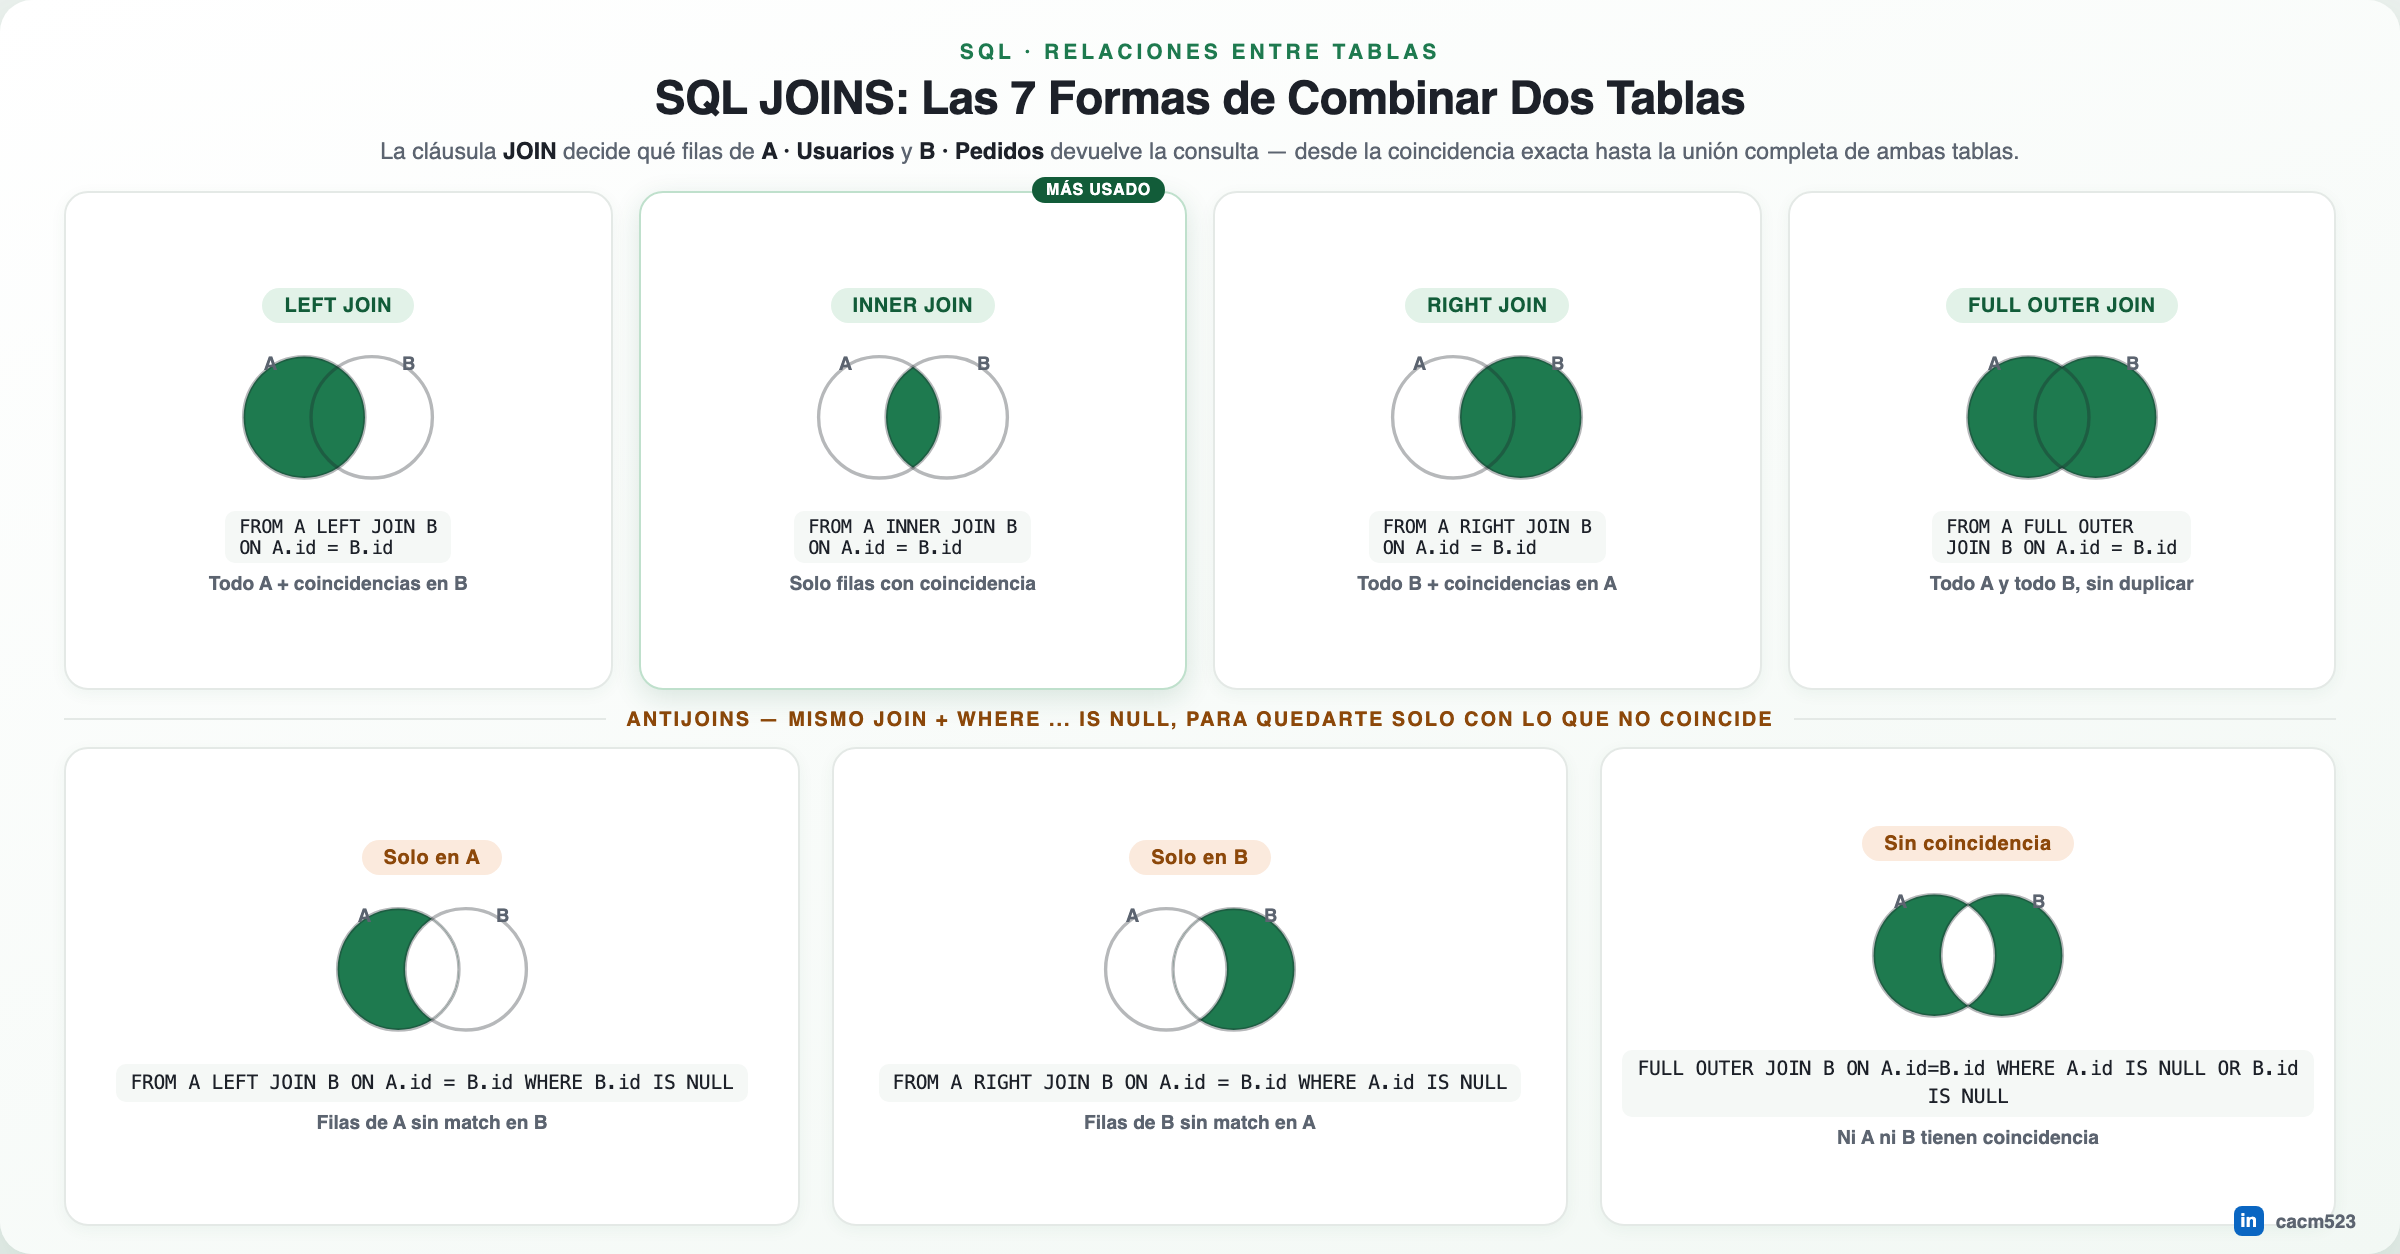
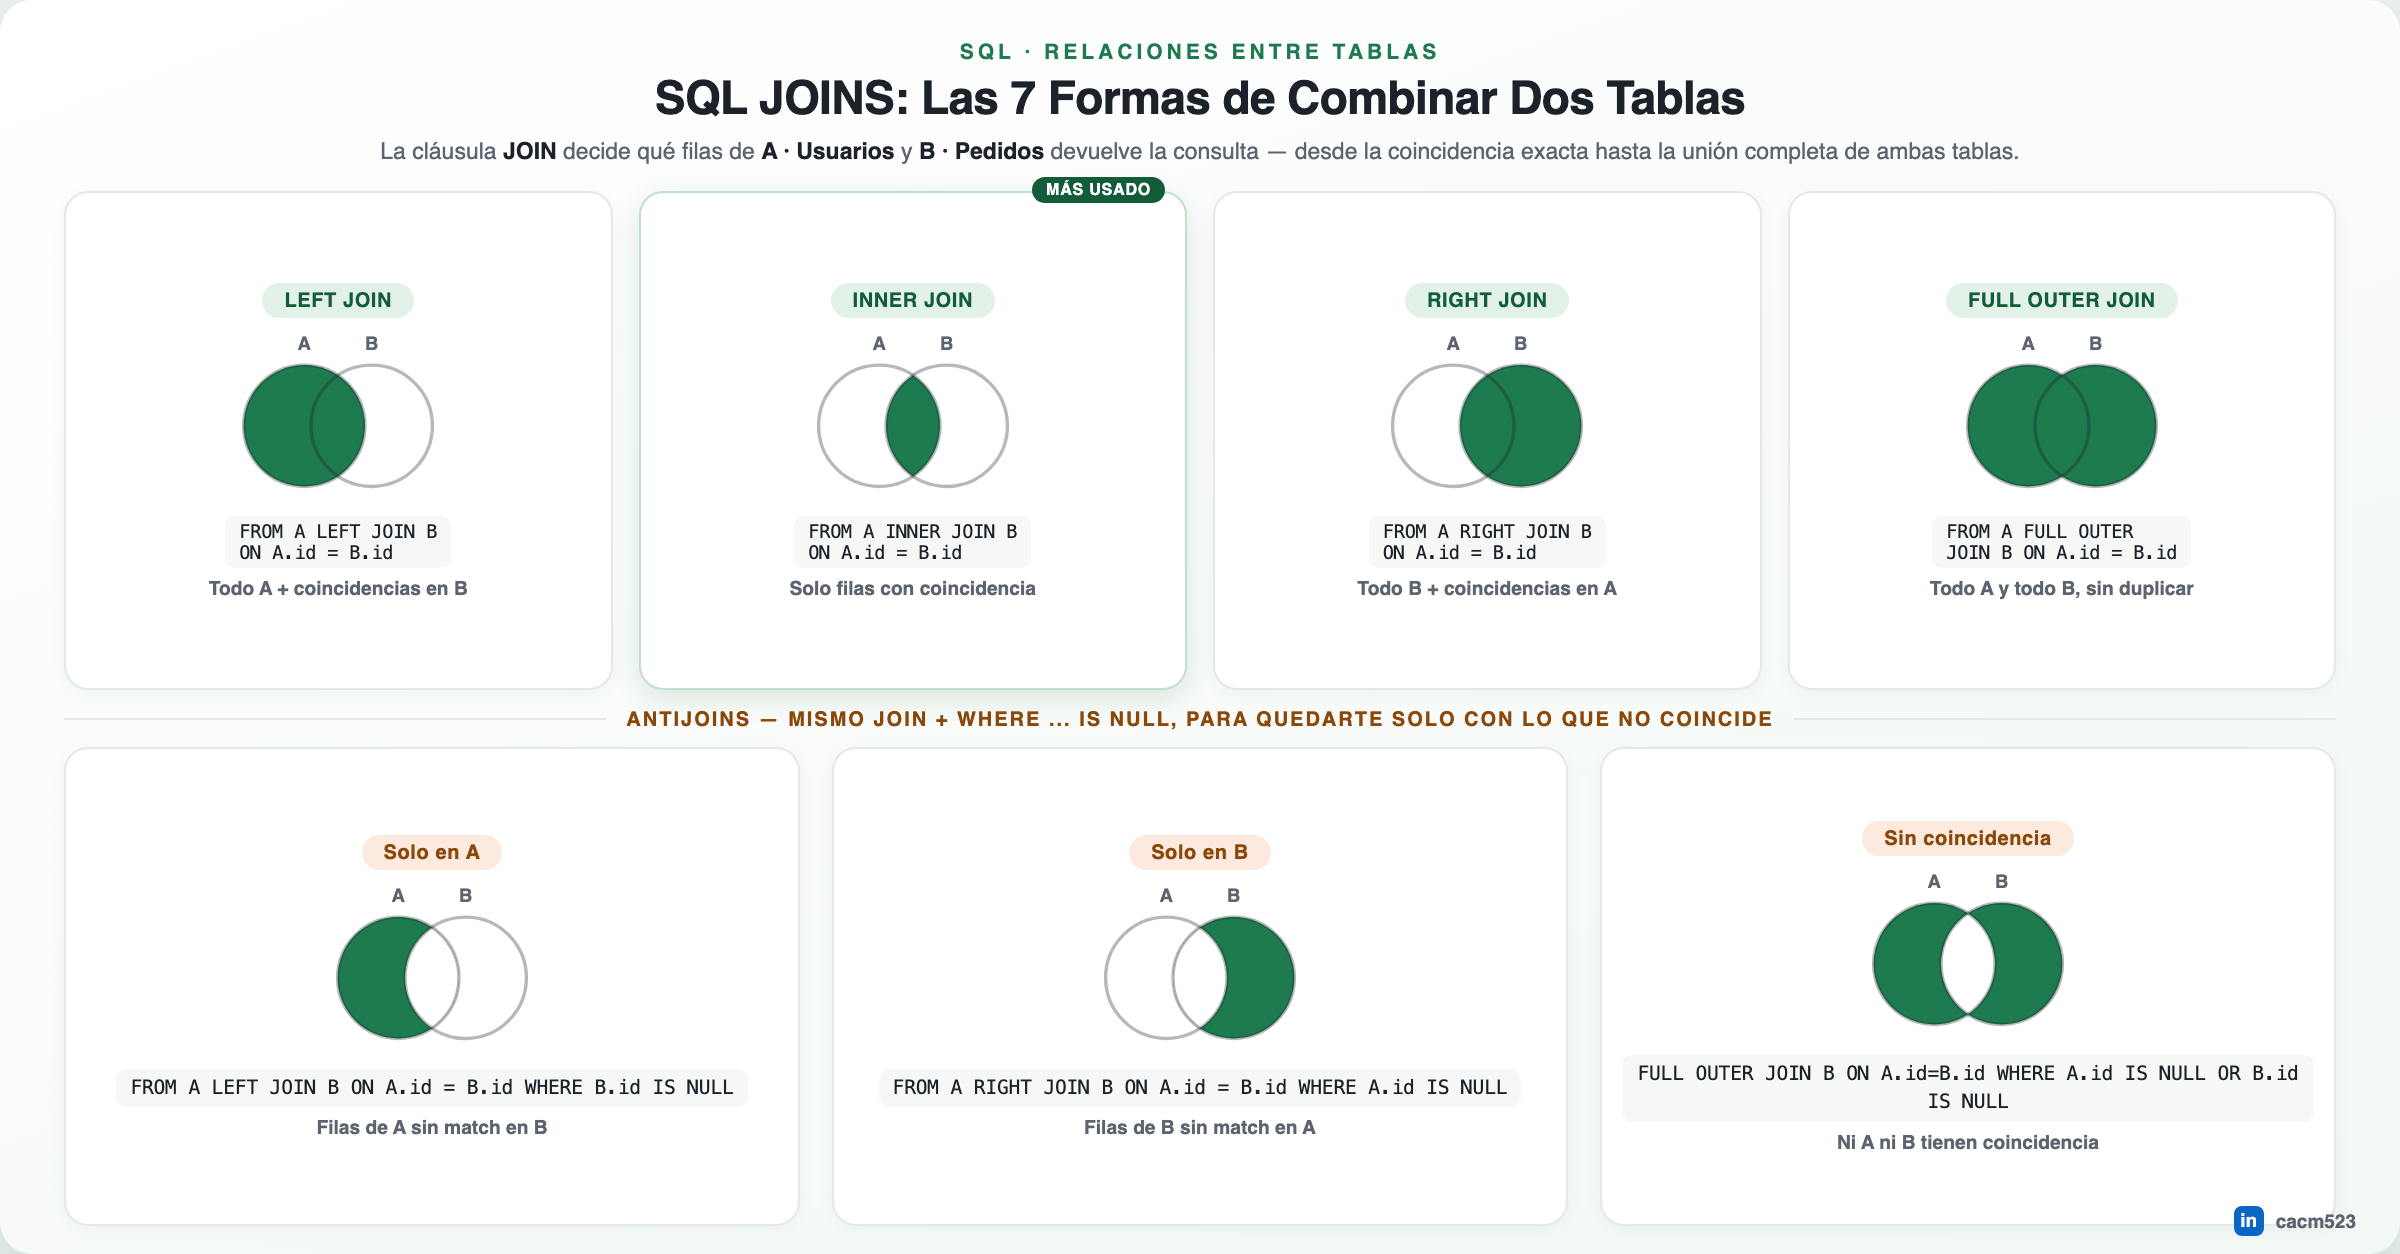
Corrige separación de etiquetas A/B en los diagramas de Venn de SQL Joins
Las letras quedaban tocando el borde superior de las circunferencias;
se agranda el viewBox y se centran las etiquetas por encima de cada
círculo con margen claro.

diff --git a/Construidos/SQL/sql-joins.html b/Construidos/SQL/sql-joins.html
@@ -82,13 +82,13 @@
 
       <div class="jcard">
         <span class="badge green">LEFT JOIN</span>
-        <svg viewBox="0 0 140 100">
-          <defs><clipPath id="cB1"><circle cx="90" cy="50" r="36"/></clipPath></defs>
-          <circle cx="50" cy="50" r="36" fill="var(--green)"/>
-          <circle cx="50" cy="50" r="36" class="venn-outline"/>
-          <circle cx="90" cy="50" r="36" class="venn-outline"/>
-          <text x="26" y="22" class="venn-lbl">A</text>
-          <text x="108" y="22" class="venn-lbl">B</text>
+        <svg viewBox="0 0 140 106">
+          <defs><clipPath id="cB1"><circle cx="90" cy="58" r="36"/></clipPath></defs>
+          <circle cx="50" cy="58" r="36" fill="var(--green)"/>
+          <circle cx="50" cy="58" r="36" class="venn-outline"/>
+          <circle cx="90" cy="58" r="36" class="venn-outline"/>
+          <text x="50" y="13" text-anchor="middle" class="venn-lbl">A</text>
+          <text x="90" y="13" text-anchor="middle" class="venn-lbl">B</text>
         </svg>
         <code>FROM A LEFT JOIN B<br>ON A.id = B.id</code>
         <span class="desc">Todo A + coincidencias en B</span>
@@ -97,13 +97,13 @@
       <div class="jcard star">
         <span class="star-tag">Más usado</span>
         <span class="badge green">INNER JOIN</span>
-        <svg viewBox="0 0 140 100">
-          <defs><clipPath id="cB2"><circle cx="90" cy="50" r="36"/></clipPath></defs>
-          <circle cx="50" cy="50" r="36" fill="var(--green)" clip-path="url(#cB2)"/>
-          <circle cx="50" cy="50" r="36" class="venn-outline"/>
-          <circle cx="90" cy="50" r="36" class="venn-outline"/>
-          <text x="26" y="22" class="venn-lbl">A</text>
-          <text x="108" y="22" class="venn-lbl">B</text>
+        <svg viewBox="0 0 140 106">
+          <defs><clipPath id="cB2"><circle cx="90" cy="58" r="36"/></clipPath></defs>
+          <circle cx="50" cy="58" r="36" fill="var(--green)" clip-path="url(#cB2)"/>
+          <circle cx="50" cy="58" r="36" class="venn-outline"/>
+          <circle cx="90" cy="58" r="36" class="venn-outline"/>
+          <text x="50" y="13" text-anchor="middle" class="venn-lbl">A</text>
+          <text x="90" y="13" text-anchor="middle" class="venn-lbl">B</text>
         </svg>
         <code>FROM A INNER JOIN B<br>ON A.id = B.id</code>
         <span class="desc">Solo filas con coincidencia</span>
@@ -111,12 +111,12 @@
 
       <div class="jcard">
         <span class="badge green">RIGHT JOIN</span>
-        <svg viewBox="0 0 140 100">
-          <circle cx="90" cy="50" r="36" fill="var(--green)"/>
-          <circle cx="50" cy="50" r="36" class="venn-outline"/>
-          <circle cx="90" cy="50" r="36" class="venn-outline"/>
-          <text x="26" y="22" class="venn-lbl">A</text>
-          <text x="108" y="22" class="venn-lbl">B</text>
+        <svg viewBox="0 0 140 106">
+          <circle cx="90" cy="58" r="36" fill="var(--green)"/>
+          <circle cx="50" cy="58" r="36" class="venn-outline"/>
+          <circle cx="90" cy="58" r="36" class="venn-outline"/>
+          <text x="50" y="13" text-anchor="middle" class="venn-lbl">A</text>
+          <text x="90" y="13" text-anchor="middle" class="venn-lbl">B</text>
         </svg>
         <code>FROM A RIGHT JOIN B<br>ON A.id = B.id</code>
         <span class="desc">Todo B + coincidencias en A</span>
@@ -124,13 +124,13 @@
 
       <div class="jcard">
         <span class="badge green">FULL OUTER JOIN</span>
-        <svg viewBox="0 0 140 100">
-          <circle cx="50" cy="50" r="36" fill="var(--green)"/>
-          <circle cx="90" cy="50" r="36" fill="var(--green)"/>
-          <circle cx="50" cy="50" r="36" class="venn-outline"/>
-          <circle cx="90" cy="50" r="36" class="venn-outline"/>
-          <text x="26" y="22" class="venn-lbl">A</text>
-          <text x="108" y="22" class="venn-lbl">B</text>
+        <svg viewBox="0 0 140 106">
+          <circle cx="50" cy="58" r="36" fill="var(--green)"/>
+          <circle cx="90" cy="58" r="36" fill="var(--green)"/>
+          <circle cx="50" cy="58" r="36" class="venn-outline"/>
+          <circle cx="90" cy="58" r="36" class="venn-outline"/>
+          <text x="50" y="13" text-anchor="middle" class="venn-lbl">A</text>
+          <text x="90" y="13" text-anchor="middle" class="venn-lbl">B</text>
         </svg>
         <code>FROM A FULL OUTER<br>JOIN B ON A.id = B.id</code>
         <span class="desc">Todo A y todo B, sin duplicar</span>
@@ -148,14 +148,14 @@
 
       <div class="jcard">
         <span class="badge earth">Solo en A</span>
-        <svg viewBox="0 0 140 100">
-          <defs><clipPath id="cB5"><circle cx="90" cy="50" r="36"/></clipPath></defs>
-          <circle cx="50" cy="50" r="36" fill="var(--green)"/>
-          <circle cx="50" cy="50" r="36" fill="#fff" clip-path="url(#cB5)"/>
-          <circle cx="50" cy="50" r="36" class="venn-outline"/>
-          <circle cx="90" cy="50" r="36" class="venn-outline"/>
-          <text x="26" y="22" class="venn-lbl">A</text>
-          <text x="108" y="22" class="venn-lbl">B</text>
+        <svg viewBox="0 0 140 106">
+          <defs><clipPath id="cB5"><circle cx="90" cy="58" r="36"/></clipPath></defs>
+          <circle cx="50" cy="58" r="36" fill="var(--green)"/>
+          <circle cx="50" cy="58" r="36" fill="#fff" clip-path="url(#cB5)"/>
+          <circle cx="50" cy="58" r="36" class="venn-outline"/>
+          <circle cx="90" cy="58" r="36" class="venn-outline"/>
+          <text x="50" y="13" text-anchor="middle" class="venn-lbl">A</text>
+          <text x="90" y="13" text-anchor="middle" class="venn-lbl">B</text>
         </svg>
         <code>FROM A LEFT JOIN B ON A.id = B.id WHERE B.id IS NULL</code>
         <span class="desc">Filas de A sin match en B</span>
@@ -163,14 +163,14 @@
 
       <div class="jcard">
         <span class="badge earth">Solo en B</span>
-        <svg viewBox="0 0 140 100">
-          <defs><clipPath id="cB6"><circle cx="90" cy="50" r="36"/></clipPath></defs>
-          <circle cx="90" cy="50" r="36" fill="var(--green)"/>
-          <circle cx="50" cy="50" r="36" fill="#fff" clip-path="url(#cB6)"/>
-          <circle cx="50" cy="50" r="36" class="venn-outline"/>
-          <circle cx="90" cy="50" r="36" class="venn-outline"/>
-          <text x="26" y="22" class="venn-lbl">A</text>
-          <text x="108" y="22" class="venn-lbl">B</text>
+        <svg viewBox="0 0 140 106">
+          <defs><clipPath id="cB6"><circle cx="90" cy="58" r="36"/></clipPath></defs>
+          <circle cx="90" cy="58" r="36" fill="var(--green)"/>
+          <circle cx="50" cy="58" r="36" fill="#fff" clip-path="url(#cB6)"/>
+          <circle cx="50" cy="58" r="36" class="venn-outline"/>
+          <circle cx="90" cy="58" r="36" class="venn-outline"/>
+          <text x="50" y="13" text-anchor="middle" class="venn-lbl">A</text>
+          <text x="90" y="13" text-anchor="middle" class="venn-lbl">B</text>
         </svg>
         <code>FROM A RIGHT JOIN B ON A.id = B.id WHERE A.id IS NULL</code>
         <span class="desc">Filas de B sin match en A</span>
@@ -178,15 +178,15 @@
 
       <div class="jcard">
         <span class="badge earth">Sin coincidencia</span>
-        <svg viewBox="0 0 140 100">
-          <defs><clipPath id="cB7"><circle cx="90" cy="50" r="36"/></clipPath></defs>
-          <circle cx="50" cy="50" r="36" fill="var(--green)"/>
-          <circle cx="90" cy="50" r="36" fill="var(--green)"/>
-          <circle cx="50" cy="50" r="36" fill="#fff" clip-path="url(#cB7)"/>
-          <circle cx="50" cy="50" r="36" class="venn-outline"/>
-          <circle cx="90" cy="50" r="36" class="venn-outline"/>
-          <text x="26" y="22" class="venn-lbl">A</text>
-          <text x="108" y="22" class="venn-lbl">B</text>
+        <svg viewBox="0 0 140 106">
+          <defs><clipPath id="cB7"><circle cx="90" cy="58" r="36"/></clipPath></defs>
+          <circle cx="50" cy="58" r="36" fill="var(--green)"/>
+          <circle cx="90" cy="58" r="36" fill="var(--green)"/>
+          <circle cx="50" cy="58" r="36" fill="#fff" clip-path="url(#cB7)"/>
+          <circle cx="50" cy="58" r="36" class="venn-outline"/>
+          <circle cx="90" cy="58" r="36" class="venn-outline"/>
+          <text x="50" y="13" text-anchor="middle" class="venn-lbl">A</text>
+          <text x="90" y="13" text-anchor="middle" class="venn-lbl">B</text>
         </svg>
         <code>FULL OUTER JOIN B ON A.id=B.id WHERE A.id IS NULL OR B.id IS NULL</code>
         <span class="desc">Ni A ni B tienen coincidencia</span>